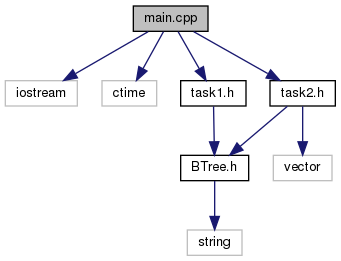
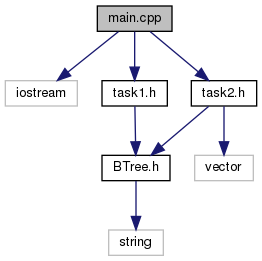
Update docs

diff --git a/docs/html/task2_8h_source.html b/docs/html/task2_8h_source.html
@@ -89,14 +89,14 @@ $(document).ready(function(){initNavTree('task2_8h_source.html','');});
 <div class="title">task2.h</div>  </div>
 </div><!--header-->
 <div class="contents">
-<a href="task2_8h.html">Go to the documentation of this file.</a><div class="fragment"><div class="line"><a name="l00001"></a><span class="lineno">    1</span>&#160;<span class="preprocessor">#ifndef TASK2_H</span></div><div class="line"><a name="l00002"></a><span class="lineno">    2</span>&#160;<span class="preprocessor">#define TASK2_H</span></div><div class="line"><a name="l00003"></a><span class="lineno">    3</span>&#160;</div><div class="line"><a name="l00004"></a><span class="lineno">    4</span>&#160;<span class="preprocessor">#include &lt;vector&gt;</span></div><div class="line"><a name="l00005"></a><span class="lineno">    5</span>&#160;<span class="preprocessor">#include &quot;<a class="code" href="BTree_8h.html">BTree.h</a>&quot;</span></div><div class="line"><a name="l00009"></a><span class="lineno"><a class="line" href="classProofLine.html">    9</a></span>&#160;<span class="keyword">class </span><a class="code" href="classProofLine.html">ProofLine</a> {</div><div class="line"><a name="l00010"></a><span class="lineno">   10</span>&#160;<span class="keyword">public</span>:</div><div class="line"><a name="l00011"></a><span class="lineno"><a class="line" href="classProofLine.html#af1e2b73ad5275235028a4b131e574aa7">   11</a></span>&#160;    <span class="keywordtype">int</span> <a class="code" href="classProofLine.html#af1e2b73ad5275235028a4b131e574aa7">line_num</a>; </div><div class="line"><a name="l00012"></a><span class="lineno"><a class="line" href="classProofLine.html#ac9dee0241ef4f6371135098fd5b1a66d">   12</a></span>&#160;    <a class="code" href="classBTree.html">BTree</a> *<a class="code" href="classProofLine.html#ac9dee0241ef4f6371135098fd5b1a66d">formula</a>; </div><div class="line"><a name="l00013"></a><span class="lineno"><a class="line" href="classProofLine.html#acdc39e9e092a10ba3a6124f21c0eb420">   13</a></span>&#160;    std::string <a class="code" href="classProofLine.html#acdc39e9e092a10ba3a6124f21c0eb420">rule_literal</a>; </div><div class="line"><a name="l00014"></a><span class="lineno"><a class="line" href="classProofLine.html#a7dbdcf0ea65aed377c5ac03303b474a6">   14</a></span>&#160;    <a class="code" href="classProofLine.html">ProofLine</a> *<a class="code" href="classProofLine.html#a7dbdcf0ea65aed377c5ac03303b474a6">line1</a>; </div><div class="line"><a name="l00015"></a><span class="lineno"><a class="line" href="classProofLine.html#afed6bbbe21b20cdbde9398eb73ccf15f">   15</a></span>&#160;    <a class="code" href="classProofLine.html">ProofLine</a> *<a class="code" href="classProofLine.html#afed6bbbe21b20cdbde9398eb73ccf15f">line2</a>; </div><div class="line"><a name="l00016"></a><span class="lineno"><a class="line" href="classProofLine.html#a8531e674967263c2e6ba67d8bf12a336">   16</a></span>&#160;    <span class="keywordtype">bool</span> <a class="code" href="classProofLine.html#a8531e674967263c2e6ba67d8bf12a336">is_valid_formula</a>; </div><div class="line"><a name="l00024"></a><span class="lineno">   24</span>&#160;    <a class="code" href="classProofLine.html#a917582971a502aa8fc114467185c08b8">ProofLine</a>(<span class="keywordtype">int</span> <a class="code" href="classProofLine.html#af1e2b73ad5275235028a4b131e574aa7">line_num</a>, std::vector&lt;std::string&gt; parts, std::vector&lt;ProofLine *&gt; prev_lines);</div><div class="line"><a name="l00025"></a><span class="lineno">   25</span>&#160;};</div><div class="line"><a name="l00026"></a><span class="lineno">   26</span>&#160;</div><div class="line"><a name="l00035"></a><span class="lineno">   35</span>&#160;<a class="code" href="classProofLine.html">ProofLine</a> *<a class="code" href="classProofLine.html#ab2fe671562f60c3554c37ad75985e036">parse_line</a>(std::string s, <span class="keywordtype">int</span> line_num, std::vector&lt;ProofLine *&gt; prev_lines);</div><div class="line"><a name="l00036"></a><span class="lineno">   36</span>&#160;</div><div class="line"><a name="l00041"></a><span class="lineno">   41</span>&#160;<span class="keywordtype">void</span> <a class="code" href="classProofLine.html#a43022f1f1f94d244fad4a528ef0a8726">validate_proof</a>();</div><div class="line"><a name="l00042"></a><span class="lineno">   42</span>&#160;</div><div class="line"><a name="l00043"></a><span class="lineno">   43</span>&#160;<span class="preprocessor">#endif</span></div><div class="ttc" id="classProofLine_html_a43022f1f1f94d244fad4a528ef0a8726"><div class="ttname"><a href="classProofLine.html#a43022f1f1f94d244fad4a528ef0a8726">ProofLine::validate_proof</a></div><div class="ttdeci">void validate_proof()</div><div class="ttdoc">Checks validity of user-given proof.</div><div class="ttdef"><b>Definition:</b> task2.cpp:55</div></div>
+<a href="task2_8h.html">Go to the documentation of this file.</a><div class="fragment"><div class="line"><a name="l00001"></a><span class="lineno">    1</span>&#160;<span class="preprocessor">#ifndef TASK2_H</span></div><div class="line"><a name="l00002"></a><span class="lineno">    2</span>&#160;<span class="preprocessor">#define TASK2_H</span></div><div class="line"><a name="l00003"></a><span class="lineno">    3</span>&#160;</div><div class="line"><a name="l00004"></a><span class="lineno">    4</span>&#160;<span class="preprocessor">#include &lt;vector&gt;</span></div><div class="line"><a name="l00005"></a><span class="lineno">    5</span>&#160;<span class="preprocessor">#include &quot;<a class="code" href="BTree_8h.html">BTree.h</a>&quot;</span></div><div class="line"><a name="l00009"></a><span class="lineno"><a class="line" href="classProofLine.html">    9</a></span>&#160;<span class="keyword">class </span><a class="code" href="classProofLine.html">ProofLine</a> {</div><div class="line"><a name="l00010"></a><span class="lineno">   10</span>&#160;<span class="keyword">public</span>:</div><div class="line"><a name="l00011"></a><span class="lineno"><a class="line" href="classProofLine.html#af1e2b73ad5275235028a4b131e574aa7">   11</a></span>&#160;    <span class="keywordtype">int</span> <a class="code" href="classProofLine.html#af1e2b73ad5275235028a4b131e574aa7">line_num</a>; </div><div class="line"><a name="l00012"></a><span class="lineno"><a class="line" href="classProofLine.html#ac9dee0241ef4f6371135098fd5b1a66d">   12</a></span>&#160;    <a class="code" href="classBTree.html">BTree</a> *<a class="code" href="classProofLine.html#ac9dee0241ef4f6371135098fd5b1a66d">formula</a>; </div><div class="line"><a name="l00013"></a><span class="lineno"><a class="line" href="classProofLine.html#acdc39e9e092a10ba3a6124f21c0eb420">   13</a></span>&#160;    std::string <a class="code" href="classProofLine.html#acdc39e9e092a10ba3a6124f21c0eb420">rule_literal</a>; </div><div class="line"><a name="l00014"></a><span class="lineno"><a class="line" href="classProofLine.html#a7dbdcf0ea65aed377c5ac03303b474a6">   14</a></span>&#160;    <a class="code" href="classProofLine.html">ProofLine</a> *<a class="code" href="classProofLine.html#a7dbdcf0ea65aed377c5ac03303b474a6">line1</a>; </div><div class="line"><a name="l00015"></a><span class="lineno"><a class="line" href="classProofLine.html#afed6bbbe21b20cdbde9398eb73ccf15f">   15</a></span>&#160;    <a class="code" href="classProofLine.html">ProofLine</a> *<a class="code" href="classProofLine.html#afed6bbbe21b20cdbde9398eb73ccf15f">line2</a>; </div><div class="line"><a name="l00016"></a><span class="lineno"><a class="line" href="classProofLine.html#a8531e674967263c2e6ba67d8bf12a336">   16</a></span>&#160;    <span class="keywordtype">bool</span> <a class="code" href="classProofLine.html#a8531e674967263c2e6ba67d8bf12a336">is_valid_formula</a>; </div><div class="line"><a name="l00024"></a><span class="lineno">   24</span>&#160;    <a class="code" href="classProofLine.html#a917582971a502aa8fc114467185c08b8">ProofLine</a>(<span class="keywordtype">int</span> <a class="code" href="classProofLine.html#af1e2b73ad5275235028a4b131e574aa7">line_num</a>, std::vector&lt;std::string&gt; parts, std::vector&lt;ProofLine *&gt; prev_lines);</div><div class="line"><a name="l00025"></a><span class="lineno">   25</span>&#160;};</div><div class="line"><a name="l00026"></a><span class="lineno">   26</span>&#160;</div><div class="line"><a name="l00035"></a><span class="lineno">   35</span>&#160;<a class="code" href="classProofLine.html">ProofLine</a> *<a class="code" href="classProofLine.html#ab2fe671562f60c3554c37ad75985e036">parse_line</a>(std::string s, <span class="keywordtype">int</span> line_num, std::vector&lt;ProofLine *&gt; prev_lines);</div><div class="line"><a name="l00036"></a><span class="lineno">   36</span>&#160;</div><div class="line"><a name="l00041"></a><span class="lineno">   41</span>&#160;<span class="keywordtype">void</span> <a class="code" href="classProofLine.html#a43022f1f1f94d244fad4a528ef0a8726">validate_proof</a>();</div><div class="line"><a name="l00042"></a><span class="lineno">   42</span>&#160;</div><div class="line"><a name="l00043"></a><span class="lineno">   43</span>&#160;<span class="preprocessor">#endif</span></div><div class="ttc" id="classProofLine_html_a43022f1f1f94d244fad4a528ef0a8726"><div class="ttname"><a href="classProofLine.html#a43022f1f1f94d244fad4a528ef0a8726">ProofLine::validate_proof</a></div><div class="ttdeci">void validate_proof()</div><div class="ttdoc">Checks validity of user-given proof.</div><div class="ttdef"><b>Definition:</b> task2.cpp:54</div></div>
 <div class="ttc" id="BTree_8h_html"><div class="ttname"><a href="BTree_8h.html">BTree.h</a></div></div>
 <div class="ttc" id="classProofLine_html_a8531e674967263c2e6ba67d8bf12a336"><div class="ttname"><a href="classProofLine.html#a8531e674967263c2e6ba67d8bf12a336">ProofLine::is_valid_formula</a></div><div class="ttdeci">bool is_valid_formula</div><div class="ttdoc">Whether current ProofLine is true or false.</div><div class="ttdef"><b>Definition:</b> task2.h:16</div></div>
 <div class="ttc" id="classProofLine_html_afed6bbbe21b20cdbde9398eb73ccf15f"><div class="ttname"><a href="classProofLine.html#afed6bbbe21b20cdbde9398eb73ccf15f">ProofLine::line2</a></div><div class="ttdeci">ProofLine * line2</div><div class="ttdoc">Pointer to ProofLine with given line_num.</div><div class="ttdef"><b>Definition:</b> task2.h:15</div></div>
 <div class="ttc" id="classProofLine_html_acdc39e9e092a10ba3a6124f21c0eb420"><div class="ttname"><a href="classProofLine.html#acdc39e9e092a10ba3a6124f21c0eb420">ProofLine::rule_literal</a></div><div class="ttdeci">std::string rule_literal</div><div class="ttdoc">String of rule inputted.</div><div class="ttdef"><b>Definition:</b> task2.h:13</div></div>
 <div class="ttc" id="classProofLine_html"><div class="ttname"><a href="classProofLine.html">ProofLine</a></div><div class="ttdoc">Class containing segregated information about a ProofLine.</div><div class="ttdef"><b>Definition:</b> task2.h:9</div></div>
 <div class="ttc" id="classBTree_html"><div class="ttname"><a href="classBTree.html">BTree</a></div><div class="ttdoc">Class to represent a Binary Tree.</div><div class="ttdef"><b>Definition:</b> BTree.h:10</div></div>
-<div class="ttc" id="classProofLine_html_a917582971a502aa8fc114467185c08b8"><div class="ttname"><a href="classProofLine.html#a917582971a502aa8fc114467185c08b8">ProofLine::ProofLine</a></div><div class="ttdeci">ProofLine(int line_num, std::vector&lt; std::string &gt; parts, std::vector&lt; ProofLine *&gt; prev_lines)</div><div class="ttdoc">A constructor of ProofLine for given inputs.</div><div class="ttdef"><b>Definition:</b> task2.cpp:12</div></div>
+<div class="ttc" id="classProofLine_html_a917582971a502aa8fc114467185c08b8"><div class="ttname"><a href="classProofLine.html#a917582971a502aa8fc114467185c08b8">ProofLine::ProofLine</a></div><div class="ttdeci">ProofLine(int line_num, std::vector&lt; std::string &gt; parts, std::vector&lt; ProofLine *&gt; prev_lines)</div><div class="ttdoc">A constructor of ProofLine for given inputs.</div><div class="ttdef"><b>Definition:</b> task2.cpp:11</div></div>
 <div class="ttc" id="classProofLine_html_a7dbdcf0ea65aed377c5ac03303b474a6"><div class="ttname"><a href="classProofLine.html#a7dbdcf0ea65aed377c5ac03303b474a6">ProofLine::line1</a></div><div class="ttdeci">ProofLine * line1</div><div class="ttdoc">Pointer to ProofLine with given line_num.</div><div class="ttdef"><b>Definition:</b> task2.h:14</div></div>
 <div class="ttc" id="classProofLine_html_ac9dee0241ef4f6371135098fd5b1a66d"><div class="ttname"><a href="classProofLine.html#ac9dee0241ef4f6371135098fd5b1a66d">ProofLine::formula</a></div><div class="ttdeci">BTree * formula</div><div class="ttdoc">Root of binary tree created from expression in input string.</div><div class="ttdef"><b>Definition:</b> task2.h:12</div></div>
 <div class="ttc" id="classProofLine_html_ab2fe671562f60c3554c37ad75985e036"><div class="ttname"><a href="classProofLine.html#ab2fe671562f60c3554c37ad75985e036">ProofLine::parse_line</a></div><div class="ttdeci">ProofLine * parse_line(std::string s, int line_num, std::vector&lt; ProofLine * &gt; prev_lines)</div><div class="ttdoc">Makes new ProofLine object using the input string.</div></div>

diff --git a/docs/html/task2_8cpp.html b/docs/html/task2_8cpp.html
@@ -95,7 +95,6 @@ $(document).ready(function(){initNavTree('task2_8cpp.html','');});
 <code>#include &lt;sstream&gt;</code><br />
 <code>#include &lt;string&gt;</code><br />
 <code>#include &lt;vector&gt;</code><br />
-<code>#include &lt;ctime&gt;</code><br />
 <code>#include &quot;<a class="el" href="rules_8h_source.html">rules.h</a>&quot;</code><br />
 <code>#include &quot;<a class="el" href="task1_8h_source.html">task1.h</a>&quot;</code><br />
 <code>#include &quot;<a class="el" href="task2_8h_source.html">task2.h</a>&quot;</code><br />
@@ -104,17 +103,16 @@ Include dependency graph for task2.cpp:</div>
 <div class="dyncontent">
 <div class="center"><img src="task2_8cpp__incl.png" border="0" usemap="#task2_8cpp" alt=""/></div>
 <map name="task2_8cpp" id="task2_8cpp">
-<area shape="rect" id="node1" title=" " alt="" coords="350,5,429,32"/>
+<area shape="rect" id="node1" title=" " alt="" coords="301,5,379,32"/>
 <area shape="rect" id="node2" title=" " alt="" coords="5,80,77,107"/>
 <area shape="rect" id="node3" title=" " alt="" coords="101,80,171,107"/>
 <area shape="rect" id="node4" title=" " alt="" coords="457,304,511,331"/>
 <area shape="rect" id="node5" title=" " alt="" coords="163,229,221,256"/>
-<area shape="rect" id="node6" title=" " alt="" coords="638,80,693,107"/>
-<area shape="rect" id="node7" href="rules_8h.html" title=" " alt="" coords="317,80,379,107"/>
-<area shape="rect" id="node9" href="task2_8h.html" title=" " alt="" coords="407,155,473,181"/>
-<area shape="rect" id="node11" href="task1_8h.html" title=" " alt="" coords="497,155,562,181"/>
-<area shape="rect" id="node8" href="operators_8h.html" title=" " alt="" coords="297,155,383,181"/>
-<area shape="rect" id="node10" href="BTree_8h.html" title=" " alt="" coords="450,229,518,256"/>
+<area shape="rect" id="node6" href="rules_8h.html" title=" " alt="" coords="309,80,371,107"/>
+<area shape="rect" id="node8" href="task2_8h.html" title=" " alt="" coords="407,155,473,181"/>
+<area shape="rect" id="node10" href="task1_8h.html" title=" " alt="" coords="497,155,562,181"/>
+<area shape="rect" id="node7" href="operators_8h.html" title=" " alt="" coords="297,155,383,181"/>
+<area shape="rect" id="node9" href="BTree_8h.html" title=" " alt="" coords="450,229,518,256"/>
 </map>
 </div>
 </div><table class="memberdecls">

diff --git a/docs/html/main_8cpp.html b/docs/html/main_8cpp.html
@@ -92,7 +92,6 @@ $(document).ready(function(){initNavTree('main_8cpp.html','');});
 </div><!--header-->
 <div class="contents">
 <div class="textblock"><code>#include &lt;iostream&gt;</code><br />
-<code>#include &lt;ctime&gt;</code><br />
 <code>#include &quot;<a class="el" href="task1_8h_source.html">task1.h</a>&quot;</code><br />
 <code>#include &quot;<a class="el" href="task2_8h_source.html">task2.h</a>&quot;</code><br />
 </div><div class="textblock"><div class="dynheader">
@@ -100,14 +99,13 @@ Include dependency graph for main.cpp:</div>
 <div class="dyncontent">
 <div class="center"><img src="main_8cpp__incl.png" border="0" usemap="#main_8cpp" alt=""/></div>
 <map name="main_8cpp" id="main_8cpp">
-<area shape="rect" id="node1" title=" " alt="" coords="133,5,208,32"/>
+<area shape="rect" id="node1" title=" " alt="" coords="97,5,172,32"/>
 <area shape="rect" id="node2" title=" " alt="" coords="5,80,77,107"/>
-<area shape="rect" id="node3" title=" " alt="" coords="102,80,157,107"/>
-<area shape="rect" id="node4" href="task1_8h.html" title=" " alt="" coords="181,80,246,107"/>
-<area shape="rect" id="node7" href="task2_8h.html" title=" " alt="" coords="270,80,335,107"/>
-<area shape="rect" id="node5" href="BTree_8h.html" title=" " alt="" coords="181,155,249,181"/>
-<area shape="rect" id="node6" title=" " alt="" coords="187,229,242,256"/>
-<area shape="rect" id="node8" title=" " alt="" coords="273,155,332,181"/>
+<area shape="rect" id="node3" href="task1_8h.html" title=" " alt="" coords="102,80,167,107"/>
+<area shape="rect" id="node6" href="task2_8h.html" title=" " alt="" coords="191,80,257,107"/>
+<area shape="rect" id="node4" href="BTree_8h.html" title=" " alt="" coords="102,155,170,181"/>
+<area shape="rect" id="node5" title=" " alt="" coords="109,229,163,256"/>
+<area shape="rect" id="node7" title=" " alt="" coords="195,155,253,181"/>
 </map>
 </div>
 </div><table class="memberdecls">

diff --git a/docs/html/md_README.html b/docs/html/md_README.html
@@ -134,18 +134,10 @@ $(document).ready(function(){initNavTree('md_README.html','');});
 <p> Crashed (2819 atoms): </p><div class="image">
 <img src="performance/Part1-Memory-3-Crashed.png" alt="3"/>
 </div>
-<h4>Time</h4>
-<div class="image">
-<img src="performance/Part1-Time.png" alt="1"/>
-</div>
 <h3>Part 2</h3>
 <h4>Memory</h4>
 <div class="image">
 <img src="performance/Part2-Valid-Invalid.png" alt="1"/>
-</div>
-<h4>Time</h4>
-<div class="image">
-<img src="performance/Part2-Time.png" alt="1"/>
 </div>
 <h2>Tools used</h2>
 <ul>

diff --git a/docs/latex/main_8cpp.tex b/docs/latex/main_8cpp.tex
@@ -1,15 +1,13 @@
 \hypertarget{main_8cpp}{}\section{main.\+cpp File Reference}
 \label{main_8cpp}\index{main.\+cpp@{main.\+cpp}}
 {\ttfamily \#include $<$iostream$>$}\newline
-{\ttfamily \#include $<$ctime$>$}\newline
 {\ttfamily \#include \char`\"{}task1.\+h\char`\"{}}\newline
 {\ttfamily \#include \char`\"{}task2.\+h\char`\"{}}\newline
-Include dependency graph for main.\+cpp\+:
-\nopagebreak
+Include dependency graph for main.\+cpp\+:\nopagebreak
 \begin{figure}[H]
 \begin{center}
 \leavevmode
-\includegraphics[width=328pt]{main_8cpp__incl}
+\includegraphics[width=269pt]{main_8cpp__incl}
 \end{center}
 \end{figure}
 \subsection*{Functions}

diff --git a/docs/latex/task2_8cpp.tex b/docs/latex/task2_8cpp.tex
@@ -4,12 +4,10 @@
 {\ttfamily \#include $<$sstream$>$}\newline
 {\ttfamily \#include $<$string$>$}\newline
 {\ttfamily \#include $<$vector$>$}\newline
-{\ttfamily \#include $<$ctime$>$}\newline
 {\ttfamily \#include \char`\"{}rules.\+h\char`\"{}}\newline
 {\ttfamily \#include \char`\"{}task1.\+h\char`\"{}}\newline
 {\ttfamily \#include \char`\"{}task2.\+h\char`\"{}}\newline
-Include dependency graph for task2.\+cpp\+:
-\nopagebreak
+Include dependency graph for task2.\+cpp\+:\nopagebreak
 \begin{figure}[H]
 \begin{center}
 \leavevmode

diff --git a/docs/latex/md_README.tex b/docs/latex/md_README.tex
@@ -53,17 +53,9 @@ Start by running the {\ttfamily Logic} file (precompiled) in a Linux terminal.
 
   Crashed (2819 atoms)\+: 
 
-\paragraph*{Time}
-
-
-
 \subsubsection*{Part 2}
 
 \paragraph*{Memory}
-
-
-
-\paragraph*{Time}
 
 
 

diff --git a/README.md b/README.md
@@ -41,16 +41,10 @@ Start by running the `Logic` file (precompiled) in a Linux terminal.
 Crashed (2819 atoms):
 ![3](docs/performance/Part1-Memory-3-Crashed.png)
 
-#### Time
-![1](docs/performance/Part1-Time.png)
-
 ### Part 2
 
 #### Memory
 ![1](docs/performance/Part2-Valid-Invalid.png)
-
-#### Time
-![1](docs/performance/Part2-Time.png)
 
 ## Tools used
 + Editors and IDEs: Sublime Text, Vim, CLion
